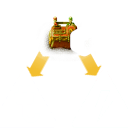
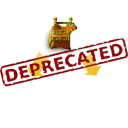
refactor: migrate to khaoscircuitry

Changed region(s): [[0.0, 0.2812, 1.0, 0.6875]]

diff --git a/README.md b/README.md
@@ -1,7 +1,6 @@
-[![Factorio Mod Portal page](https://img.shields.io/badge/dynamic/json?color=orange&label=Factorio&query=downloads_count&suffix=%20downloads&url=https%3A%2F%2Fmods.factorio.com%2Fapi%2Fmods%2Fenergy-combinator-tweaks&style=for-the-badge)](https://mods.factorio.com/mod/energy-combinator-tweaks) [![](https://img.shields.io/github/issues/QuingKhaos/energy-combinator-tweaks/bug?label=Bug%20Reports&style=for-the-badge)](https://github.com/QuingKhaos/energy-combinator-tweaks/issues?q=is%3Aissue%20state%3Aopen%20label%3Abug) [![](https://img.shields.io/github/issues-pr/QuingKhaos/energy-combinator-tweaks?label=Pull%20Requests&style=for-the-badge)](https://github.com/QuingKhaos/energy-combinator-tweaks/pulls) [![Ko-fi](https://img.shields.io/badge/Ko--fi-support%20me-ff5e5b?logo=kofi&logoColor=white&style=for-the-badge)](https://ko-fi.com/quingkhaos)
+[![The Foundry](https://img.shields.io/badge/foundrygg-4a1402?style=for-the-badge&logo=vercel&logoColor=white)](https://foundrygg.com/)
+[![Discord community](https://img.shields.io/badge/Discord-%235865F2.svg?style=for-the-badge&logo=discord&logoColor=white)](https://discord.gg/SYmkaDjFCt)
 
-# Energy Combinator Tweaks
+# [DEPRECATED] nergy Combinator Tweaks
 
-Opinionated tweaks to [Energy Combinator](https://mods.factorio.com/mod/energy-combinator). For a full list of changes, take a look at the changelog.
-
-If you want to see some new tweaks, feel free to open a discussion thread on the mod portal or a GitHub issue. Eventually some non so opiniated tweaks will make it into the original mod.
+Functionality migrated to [QuingKhaos' Circuitry Tweaks](https://mods.factorio.com/mod/khaoscircuitry).